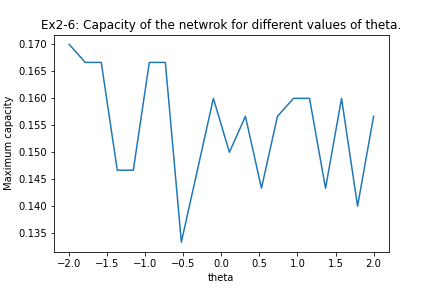
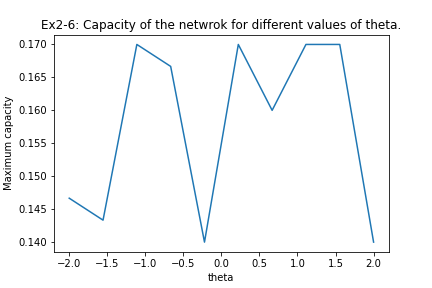
:()

diff --git a/Part2/Hop-Project-2.py b/Part2/Hop-Project-2.py
@@ -98,7 +98,7 @@ def ex2_5():
     plt.show()
 
 def ex2_6():
-    theta_list=np.linspace(-2, 2, num = 20)
+    theta_list=np.linspace(-2, 2, num = 10)
     capacity=np.zeros(len(theta_list))
     
 
@@ -137,7 +137,7 @@ def ex2_7():
 def ex2_7_2():
     a = 0.05
     b = 0.05
-    theta_list=np.linspace(0.3, 1, num = 15)
+    theta_list=np.linspace(0.3, 1, num = 10)
     capacity=np.zeros(len(theta_list))
     
     
